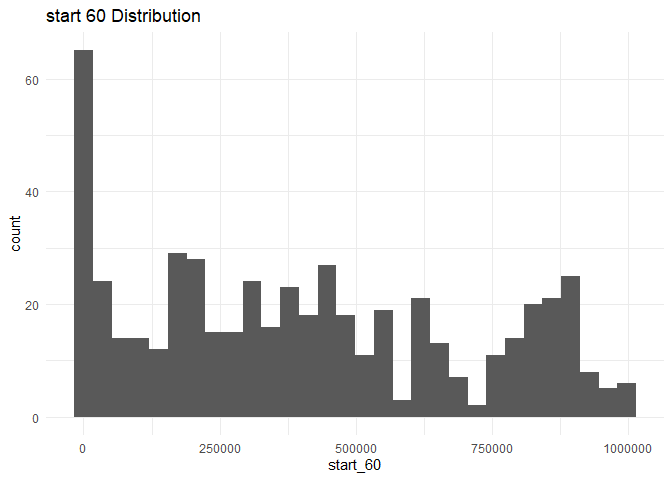
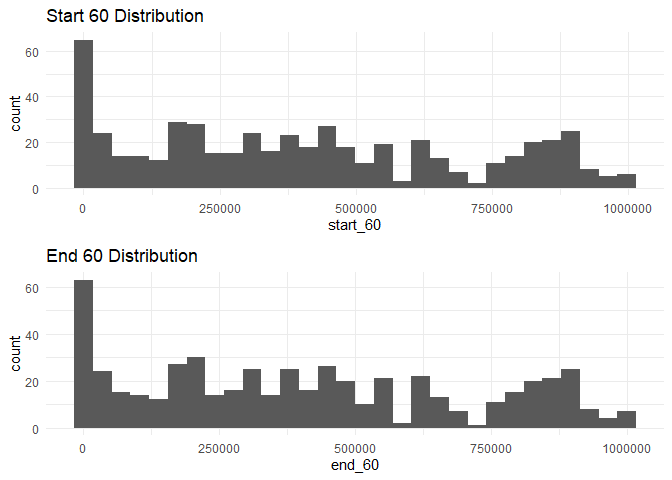
added more variables to qc

diff --git a/scripts/adult-holding-redd-and-carcass-surveys/clear-creek/clear_creek_redds_survey_qc.md b/scripts/adult-holding-redd-and-carcass-surveys/clear-creek/clear_creek_redds_survey_qc.md
@@ -13407,7 +13407,9 @@ not very exact.
 
 ### Variable: `survey`
 
-There are 15 unique survey numbers. **NA and Unknown Values**
+There are 15 unique survey numbers.
+
+**NA and Unknown Values**
 
 -   9.8 % of values in the `survey` column are NA.
 
@@ -13427,6 +13429,7 @@ cleaner_data %>%
     ## Warning: Removed 1 rows containing missing values (geom_point).
 
 ![](clear_creek_redds_survey_qc_files/figure-gfm/unnamed-chunk-30-1.png)<!-- -->
+
 Seems like more redds were observed in the first 3 miles after 2012
 
 ``` r
@@ -13681,18 +13684,30 @@ summary(cleaner_data$velocity)
 
 -   0 % of values in the `velocity` column are NA.
 
-### Variable: `start_60`
+### Variable:`start_60`,`end_60`
 
-**Description:** starting values on the mechanical flow meter at 60%
-depth
+**Description:** starting, ending values on the mechanical flow meter at
+60% depth
 
 ``` r
-cleaner_data %>% 
+start <- cleaner_data %>% 
   ggplot(aes(x = start_60))+
   geom_histogram()+
-  labs(title = "start 60 Distribution")+
+  labs(title = "Start 60 Distribution")+
   theme_minimal()
+
+end <- cleaner_data %>% 
+  ggplot(aes(x = end_60))+
+  geom_histogram()+
+  labs(title = "End 60 Distribution")+
+  theme_minimal()
+
+gridExtra::grid.arrange(start, end)
 ```
+
+    ## `stat_bin()` using `bins = 30`. Pick better value with `binwidth`.
+
+    ## Warning: Removed 967 rows containing non-finite values (stat_bin).
 
     ## `stat_bin()` using `bins = 30`. Pick better value with `binwidth`.
 
@@ -13707,28 +13722,6 @@ summary(cleaner_data$start_60)
     ##    Min. 1st Qu.  Median    Mean 3rd Qu.    Max.    NA's 
     ##       0  157950  369000  404666  635192  998000     967
 
-**NA and Unknown Values**
-
--   64.7 % of values in the `start_60` column are NA.
-
-### Variable:`end_60`
-
-**Description:** ending values on the mechanical flow meter at 60% depth
-
-``` r
-cleaner_data %>% 
-  ggplot(aes(x = end_60))+
-  geom_histogram()+
-  labs(title = "End 60 Distribution")+
-  theme_minimal()
-```
-
-    ## `stat_bin()` using `bins = 30`. Pick better value with `binwidth`.
-
-    ## Warning: Removed 967 rows containing non-finite values (stat_bin).
-
-![](clear_creek_redds_survey_qc_files/figure-gfm/unnamed-chunk-49-1.png)<!-- -->
-
 ``` r
 summary(cleaner_data$end_60)
 ```
@@ -13737,6 +13730,8 @@ summary(cleaner_data$end_60)
     ##       0  161905  370782  407139  637912 1000157     967
 
 **NA and Unknown Values**
+
+-   64.7 % of values in the `start_60` column are NA.
 
 -   64.7 % of values in the `end_60` column are NA.
 
@@ -13756,7 +13751,7 @@ cleaner_data %>%
 
     ## Warning: Removed 963 rows containing non-finite values (stat_bin).
 
-![](clear_creek_redds_survey_qc_files/figure-gfm/unnamed-chunk-51-1.png)<!-- -->
+![](clear_creek_redds_survey_qc_files/figure-gfm/unnamed-chunk-50-1.png)<!-- -->
 
 ``` r
 summary(cleaner_data$sec_60)
@@ -13768,3 +13763,140 @@ summary(cleaner_data$sec_60)
 **NA and Unknown Values**
 
 -   64.4 % of values in the `sec_60` column are NA.
+
+### Variable: `start_80`, `end_80`
+
+**Description:** Starting, end values on the mechanical flow meter at
+80/20% depth
+
+``` r
+start80 <- cleaner_data %>% 
+  ggplot(aes(x = start_80))+
+  geom_histogram()+
+  labs(title = "Start 80 Distribution")+
+  theme_minimal()
+
+end80 <- cleaner_data %>% 
+  ggplot(aes(x = end_80))+
+  geom_histogram()+
+  labs(title = "End 80 Distribution")+
+  theme_minimal()
+
+
+gridExtra::grid.arrange(start80, end80)
+```
+
+    ## `stat_bin()` using `bins = 30`. Pick better value with `binwidth`.
+
+    ## Warning: Removed 1414 rows containing non-finite values (stat_bin).
+
+    ## `stat_bin()` using `bins = 30`. Pick better value with `binwidth`.
+
+    ## Warning: Removed 1414 rows containing non-finite values (stat_bin).
+
+![](clear_creek_redds_survey_qc_files/figure-gfm/unnamed-chunk-52-1.png)<!-- -->
+
+``` r
+summary(cleaner_data$start_80)
+```
+
+    ##    Min. 1st Qu.  Median    Mean 3rd Qu.    Max.    NA's 
+    ##       0       0    4093  203438  348000  890200    1414
+
+``` r
+summary(cleaner_data$end_80)
+```
+
+    ##    Min. 1st Qu.  Median    Mean 3rd Qu.    Max.    NA's 
+    ##       0       0   17919  215119  351688  892365    1414
+
+**NA and Unknown Values**
+
+-   94.6 % of values in the `start_80` column are NA.
+
+-   94.6 % of values in the `end_80` column are NA.
+
+### Variable: `secs_80`
+
+**Description:**Time the meter was in the water at the 80/20% depth.
+
+``` r
+cleaner_data %>% 
+  ggplot(aes(x = secs_80))+
+  geom_histogram(bin =10)+
+  labs(title = "Sec 80 Distribution")+
+  theme_minimal()
+```
+
+    ## Warning: Ignoring unknown parameters: bin
+
+    ## `stat_bin()` using `bins = 30`. Pick better value with `binwidth`.
+
+    ## Warning: Removed 1414 rows containing non-finite values (stat_bin).
+
+![](clear_creek_redds_survey_qc_files/figure-gfm/unnamed-chunk-55-1.png)<!-- -->
+
+``` r
+summary(cleaner_data$secs_80)
+```
+
+    ##    Min. 1st Qu.  Median    Mean 3rd Qu.    Max.    NA's 
+    ##   100.0   100.0   100.0   100.1   100.0   108.0    1414
+
+**NA and Unknown Values**
+
+-   94.6 % of values in the `secs_80` column are NA.
+
+### Variable: `bomb_vel60`, `bomb_vel80`
+
+**`bomb_vel60` Description:** Mean water column velocity measured at 60
+percent depth from the water surface if the redd depth is ≤ 30 inches
+from the water surface (Allan and Castillo 2007).
+
+**`bomb_vel80` Description:** Mean water column velocity measured at
+80/20% percent depth from the water surface if the redd depth is ≥ 30
+inches from the water surface (Allan and Castillo 2007).
+
+``` r
+v60 <- cleaner_data %>% 
+  ggplot(aes(x = bomb_vel60))+
+  geom_histogram()+
+  labs(title = "Velocity at 60 Percent Depth Distribution")+
+  theme_minimal()
+
+v80 <- cleaner_data %>% 
+  ggplot(aes(x = bomb_vel80))+
+  geom_histogram()+
+  labs(title = "Velocity at 80/20 Percent Depth Distribution")+
+  theme_minimal()
+
+
+gridExtra::grid.arrange(v60, v80)
+```
+
+    ## `stat_bin()` using `bins = 30`. Pick better value with `binwidth`.
+
+    ## Warning: Removed 1155 rows containing non-finite values (stat_bin).
+
+    ## `stat_bin()` using `bins = 30`. Pick better value with `binwidth`.
+
+    ## Warning: Removed 1471 rows containing non-finite values (stat_bin).
+
+![](clear_creek_redds_survey_qc_files/figure-gfm/unnamed-chunk-57-1.png)<!-- -->
+
+``` r
+summary(cleaner_data$bomb_vel60)
+```
+
+    ##    Min. 1st Qu.  Median    Mean 3rd Qu.    Max.    NA's 
+    ##   0.000   0.000   0.168   1.221   2.348   5.457    1155
+
+``` r
+summary(cleaner_data$bomb_vel80)
+```
+
+    ##    Min. 1st Qu.  Median    Mean 3rd Qu.    Max.    NA's 
+    ##  0.4708  1.6214  2.0064  2.8995  2.9177 20.1574    1471
+
+Note: 0 velocity at 60 percent depth is NA? There’s significant more
+measurement of redd measurement &lt;30 inches from water.
